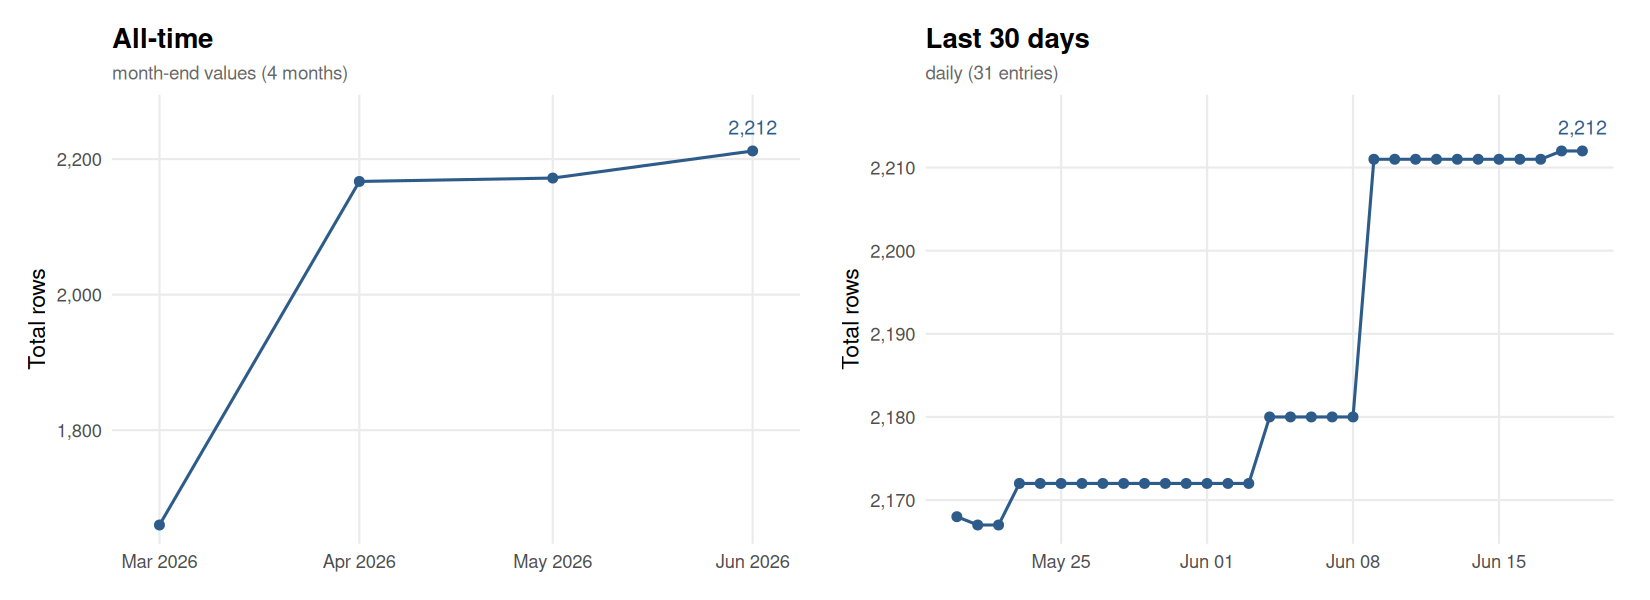
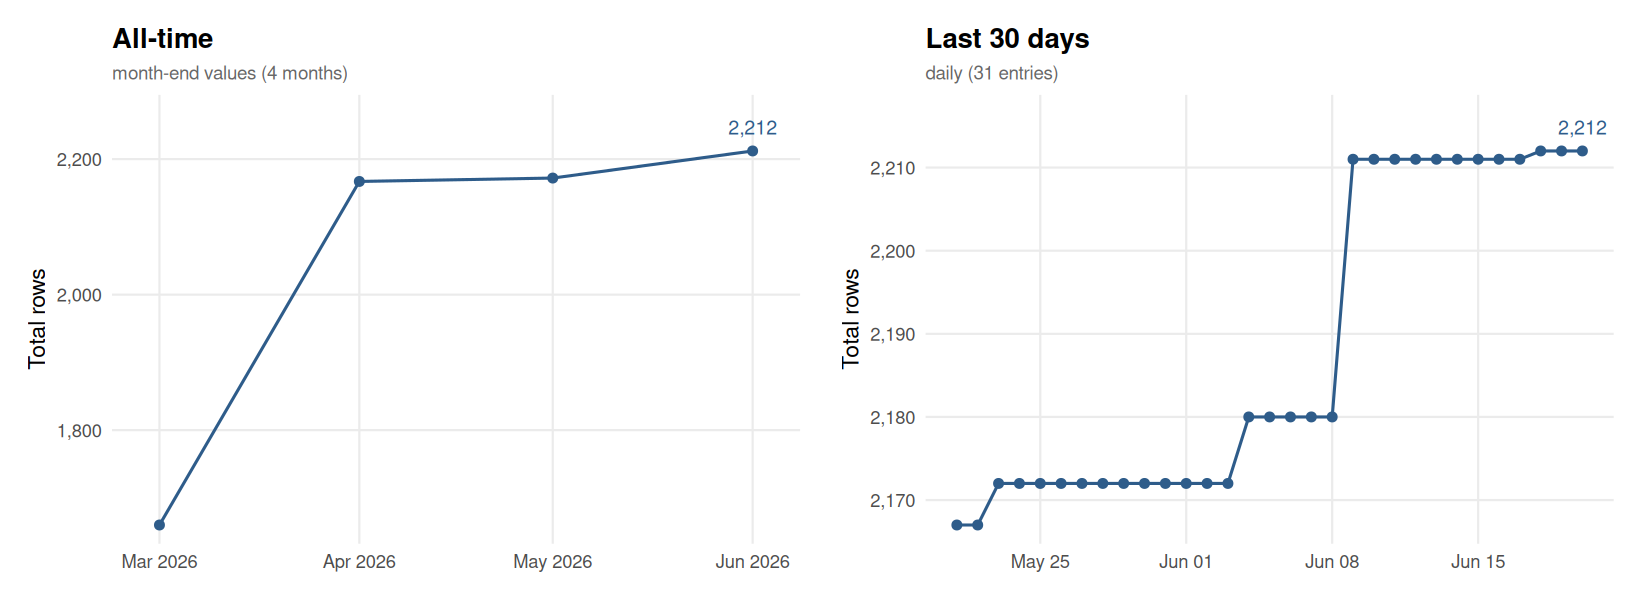
Update flora.csv [automated]

diff --git a/README.md b/README.md
@@ -438,14 +438,15 @@ For API issues:
 This chart is automatically updated after each pipeline run, showing the size of `output/flora.csv` over time.
 
 <!-- FLORA_UPDATE_LOG_START -->
-> **Latest (2026-06-19):** Total = 2,212 | Replications = 2,203 | Reproductions = 9
+> **Latest (2026-06-20):** Total = 2,212 | Replications = 2,203 | Reproductions = 9
 
 ![FLoRA dataset size over time](output/flora_history.png)
 
-<details><summary>Full history (92 entries)</summary>
+<details><summary>Full history (93 entries)</summary>
 
 | Date | Total | Replications | Reproductions |
 |------|------:|-------------:|--------------:|
+| 2026-06-20 | 2212 | 2203 | 9 |
 | 2026-06-19 | 2212 | 2203 | 9 |
 | 2026-06-18 | 2212 | 2203 | 9 |
 | 2026-06-17 | 2211 | 2202 | 9 |
